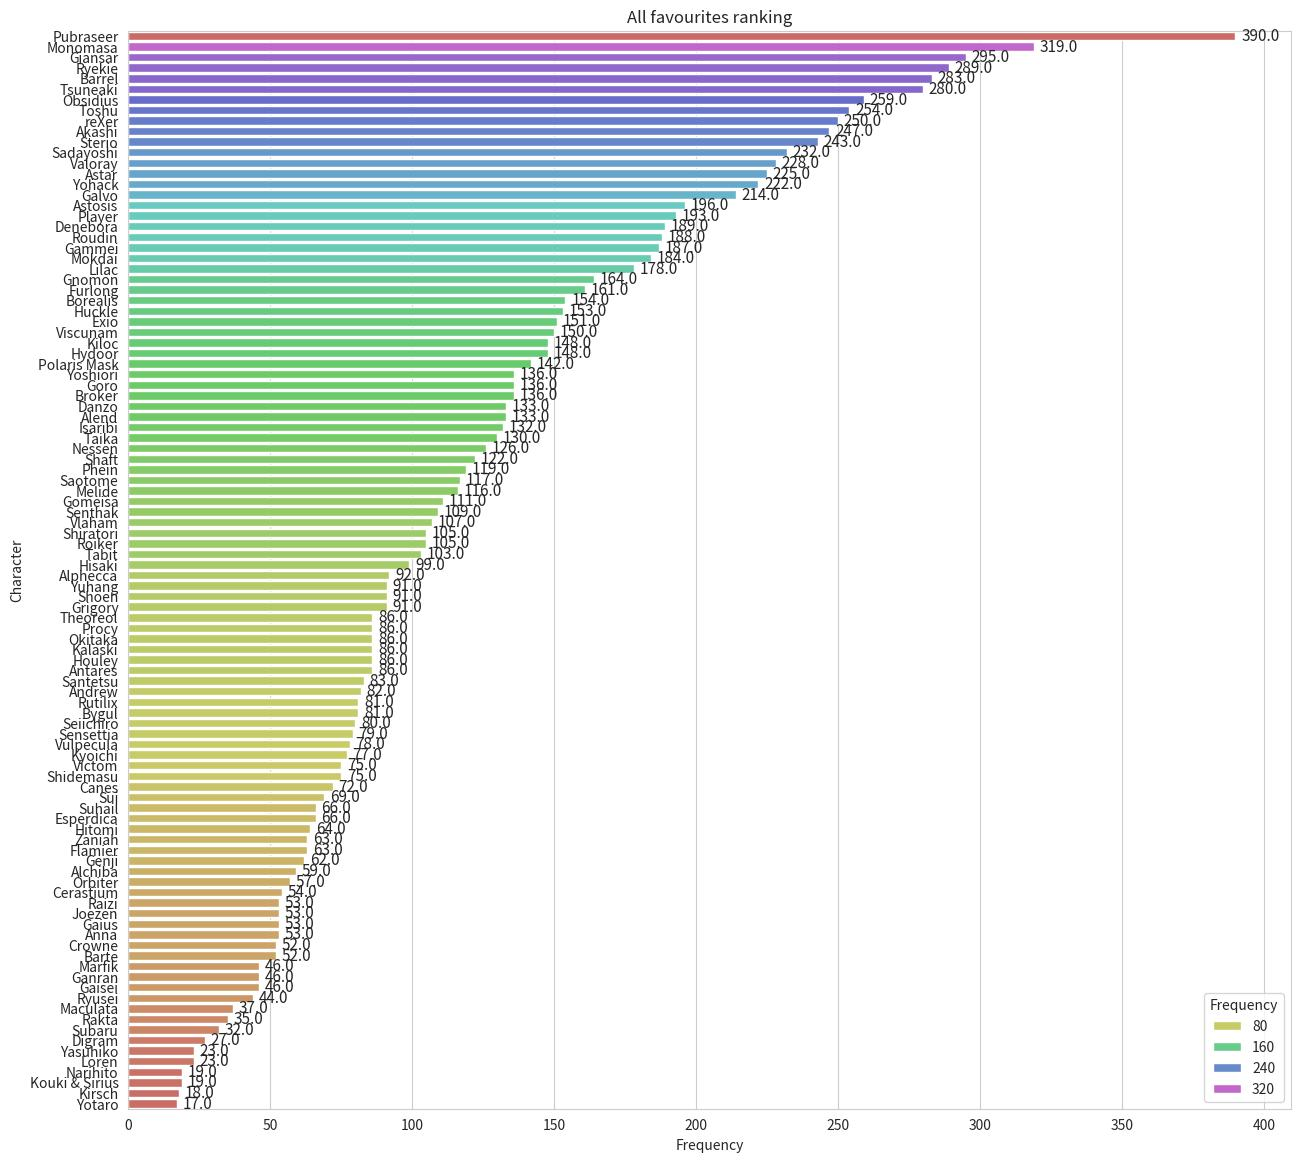
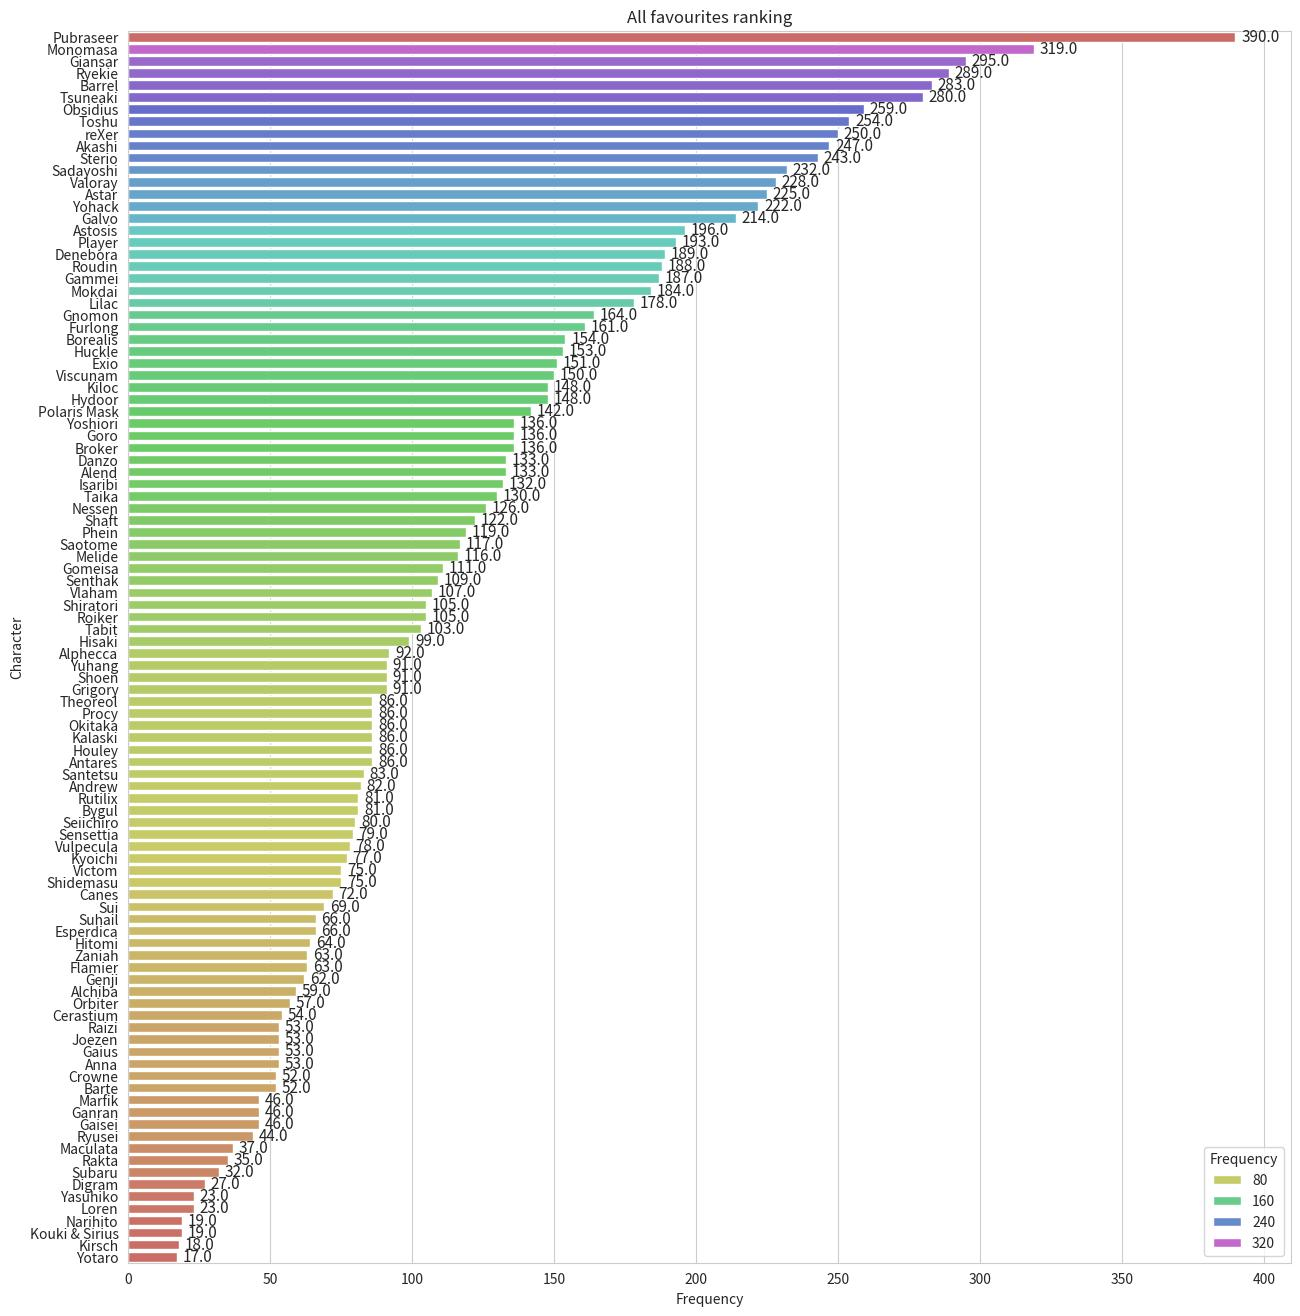
ckpt

diff --git a/_posts/2025-10-01-community-survey-2025.md b/_posts/2025-10-01-community-survey-2025.md
@@ -669,7 +669,9 @@ This number is much higher than last anniversary (27.2%), you can see that overs
   options='{"legend": {}, "label": {"formatter": "{b}: {d}%"}, "tooltip": {"formatter": "{b}<br>{c} ({d}%)"}, "series": [{"type": "pie", "data": [{"name": "Yes, I read fan translation when available / 会，如果有粉丝翻译 / はい （ファンの翻訳があれば読みます）", "value": 255}, {"name": "Yes, I read the story in-game (Japanese) / 会，我直接看日文原文 / はい（日本語）", "value": 165}, {"name": "No / 不会 / いいえ", "value": 96}]}]}'
   title="Do Live A Hero Player Read Story In-game?" %}
 
-More than half of the respondents need to rely on fan translation (which are only available for some quests).
+Close to half of the respondents need to rely on fan translation.
+
+> Note: Chinese community are more lucky than English community due to having more fan translators helping to translate different parts of the game.
 
 > I said from last year that I need to add the option of "Yes, I read the story in-game with the help of machine translation and some guesswork", but I forgot...
 
@@ -756,15 +758,14 @@ Top spots for “All favourites” popularity ranking for each category
 
 Comments:
 
-- Muscular male furry characters once again dominated the popularity ranking, with {% chara_link Pubraseer %} being the top, while {% chara_link Barrel %} and {% chara_link Monomasa %} taking the second and third place with just one vote in difference.
+- Muscular male furry characters once again dominated the popularity ranking, with {% chara_link Pubraseer %} being the top.
+- Only {% chara_link Pubraseer %} and {% chara_link Monomasa %} are liked by more than half of the respondents (approval rating > 50%)
 - The gap between first place and second place is quite significant.
 - Top 1 for "Male furry', "Male human" and "Female/Other" are exactly the same as 2024.
 
 {% include figure-image.html path="/assets/img/survey-2025/all-fav-top-10.jpg"
   clip=true
   title="All Favourites vs Top 10 (2025)" %}
-
-As we move on to “top 10 favourites” popularity ranking, we can see that it often favours the older characters more. {% chara_link Tsuneaki %} and {% chara_link Sterio %}’s ranking somewhat dropped, while {% chara_link Gaius %} experienced the largest ranking boost this way.
 
 </details>
 
@@ -779,15 +780,10 @@ As we move on to “top 10 favourites” popularity ranking, we can see that it 
   clip=true
   title="Approval Rating Change (2024 vs 2025)" %}
 
-- It seems that characters that gotten their variant forms between the time when 2023 and 2024 surveys were carried out (such as {% chara_link Polaris Mask %}, {% chara_link Lilac %}, {% chara_link Kalaski %} and {% chara_link Tsuneaki %}) have their ranking boosted quite significantly
-  - This further suggests that the amount of character appearance in story and recency biases do play a role in their ranking.
+- It seems that characters that gotten their variant forms or base form released between the time when 2024 and 2025 surveys were carried out (such as {% chara_link Astar %}, {% chara_link Barte %}, {% chara_link Yohack %}) and {% chara_link Gaisei %} have their ranking boosted quite significantly
+- {% chara_link Obsidius %}, {% chara_link Sterio %} and {% chara_link Barrel %} lost the most approval rating between 2024 and 2025 survey
+  - Reminder: this year's survey was ended before {% chara_link Barrel|h3 %} was announced
 
-{% chara_link Astar %}, {% chara_link Giansar %}, {% chara_link Yohack %}
-
-
-{% include figure-image.html path="/assets/img/survey-2025/top10-2024-2025.jpg"
-  clip=true
-  title="Top 10 Favourites (2024 vs 2025)" %}
 </details>
 
 <details markdown="1">
@@ -818,17 +814,9 @@ As we move on to “top 10 favourites” popularity ranking, we can see that it 
   clip=true
   title="All Favourites vs Top 10 (Non-binary/Other respondents)" %}
 
-The number of non-male respondents is small to begin with, so there are a lot of ties in votes.
-
-{% chara_link Pubraseer %} is not the number 1 among these respondents, but still in the top 3. This character is just really well loved in all segment of the player base.
-
-TODO
-
-For female respondents, {% chara_link Sensettia %} is number 1 in “All favourites” ranking when they can choose as many characters as want, but {% chara_link Flamier %} overtake her by one vote in “top 10” ranking. {% chara_link Tsuneaki %} is number in "Top 10" ranking.
-
-{% chara_link Barrel %} is only at 17th place in “All favourites” ranking, but shot up to 3rd place in "Top 10" among female respondents. This is quite aligned with what I observed in social media, where most Barrel fan arts are paired with the main character in the female human form.
-
-{% chara_link reXer %}, {% chara_link Grigory %} also saw significant ranking boost in “Top 10” ranking.
+- The number of non-male respondents is small to begin with, so there are a lot of ties in votes.
+- Among non-male respondents, {% chara_link Tsuneaki %} replaced {% chara_link Pubraseer %}'s to take the top spot, but {% chara_link Pubraseer %} is still ranked fairly high in the "Top 10" ranking.
+- LifeWonders promoted {% chara_link Gaisei %} and {% chara_link Vlaham %} in past AGF events to attract more female players, and indeed the female respondents give these characters higher approval rating (35.5% and 32.3% respectively) than the overall respondents (only 7.7% and 18.0% respectively)
 
 </details>
 
@@ -851,7 +839,7 @@ TODO are ranked much higher by those who chose less than 10 favourites.
 
 ## Humanoid vs Anthro Bias
 
-I have been running this survey for 5 years, and anthro characters are always on top in the popularity ranking. This has led many people to think that . So let's try to answer this question: is the survey overwhelmingly dominated by respondents that only like anthro characters?
+I have been running this survey for 5 years, and anthro characters almost always came on top in every year's popularity ranking. This has led many people to think that "furry lovers have conquered the survey". So let's try to answer this question: is the survey overwhelmingly dominated by respondents that only like anthro characters?
 
 First of all, I tried to categorize Live A Hero characters by "Gender" (Male, Female and Other) and "Type" (Humanoid, Anthro and Other). The table can be found [here](/misc/chara_category/).
 
@@ -862,20 +850,26 @@ So if the respondent population does not have bias towards anthro character or h
 {% include figure-image.html path="/assets/img/survey-2025/anthro-loving.jpg"
   title="Anthro-loving Ratio Distribution" %}
 
-> Higher percentage (right hand side of the chart) means the respondent prefers more anthro character than humanoid characters.
-> 100% means the respondent only like anthro characters
+Formula:
 
-So globally, 50% of the respondents have an anthro-loving ratio of at least 62.5% when countring all their favourite characters. The ratio is even higher when respondents can only choose top 10 favourite characters.
+- Anthro-loving ratio of a respondent = "total number of anthro characters they like" / "total number of characters they like" (converted to percentage)
+- Higher percentage means the responden prefers more anthro character than humanoid characters.
+- 100% means the respondent only like anthro characters
+
+- So globally, 50% of the respondents have an anthro-loving ratio of at least 62.5% when countring all their favourite characters.
+- The ratio is even higher when respondents can only choose top 10 favourite characters.
 
 {% include figure-image.html path="/assets/img/survey-2025/anthro-loving-japan.jpg"
   title="Anthro-loving Ratio Distribution (Japan only)" %}
 
-Japan respondents' anthro-loving ratio is slightly lower than global respondents, but it follows the global trend that the anthro-loving ratio increases when we only count top 10 favourite characters.
+- Japan respondents' anthro-loving ratio is slightly lower than global respondents, but it follows the global trend that the anthro-loving ratio increases when we only count top 10 favourite characters.
+- There are two peaks at the 0%~5% and 95%~100% range (i.e. people who almost only like humanoid characters vs people who almost only like anthro characters). Some of the Japan respondents can be quite extreme.
 
 {% include figure-image.html path="/assets/img/survey-2025/anthro-loving-female.jpg"
   title="Anthro-loving Ratio Distribution (Female respondents)" %}
 
-It is very interesting that female respondents' anthro-loving ratio distribution resembles a binomial distribution for the "all favourites". However, when the female respondents are forced to pick the top 10, then the distribution shifts towards antho characters like other gender group.
+- It is very interesting that female respondents' anthro-loving ratio distribution resembles a binomial distribution for the "all favourites".
+- However, when the female respondents are forced to pick the top 10, then the distribution shifts towards antho characters like other gender group.
 
 # Free form questions
 
@@ -1127,10 +1121,10 @@ Some of the suggestions are literally moonshot, so please do take a look at the 
     - https://x.com/korindo
 1. Hirohiko Araki (荒木飛呂彦)
     - https://x.com/araki_jojo
-    - "JoJo's Bizarre Adventure"'s artist
+    - <span class="comment">"JoJo's Bizarre Adventure"'s artist</span>
 1. Masashi Kishimoto (岸本斉史)
     - https://x.com/kishimotomasshi
-    - Naruto's artist
+    - <span class="comment">Naruto's artist</span>
 1. Haiki
     - https://x.com/haiki396g
 1. Bellsalt
@@ -1476,7 +1470,10 @@ Despite that, we still receive a lot of names. Processing this question turned o
 1. Yusa Kōji (遊佐 浩二)
 1. Nakai Kazuya (中井 和哉) - The Japanese voice actor for Roronao Zoro.
 1. Volcano Ota (ボルケーノ太田)
-1. Josuke Shinomiya (篠宮穰祐, old Barguest VA in housamo)
+1. Josuke Shinomiya (篠宮穰祐)
+  - <span class="comment">Old Barguest VA in Housamo</span>
+1. Hatsune Miku (初音ミク)
+  - <span class="comment">Yep, the infamous vocaloid</span>
 
 </details>
 
